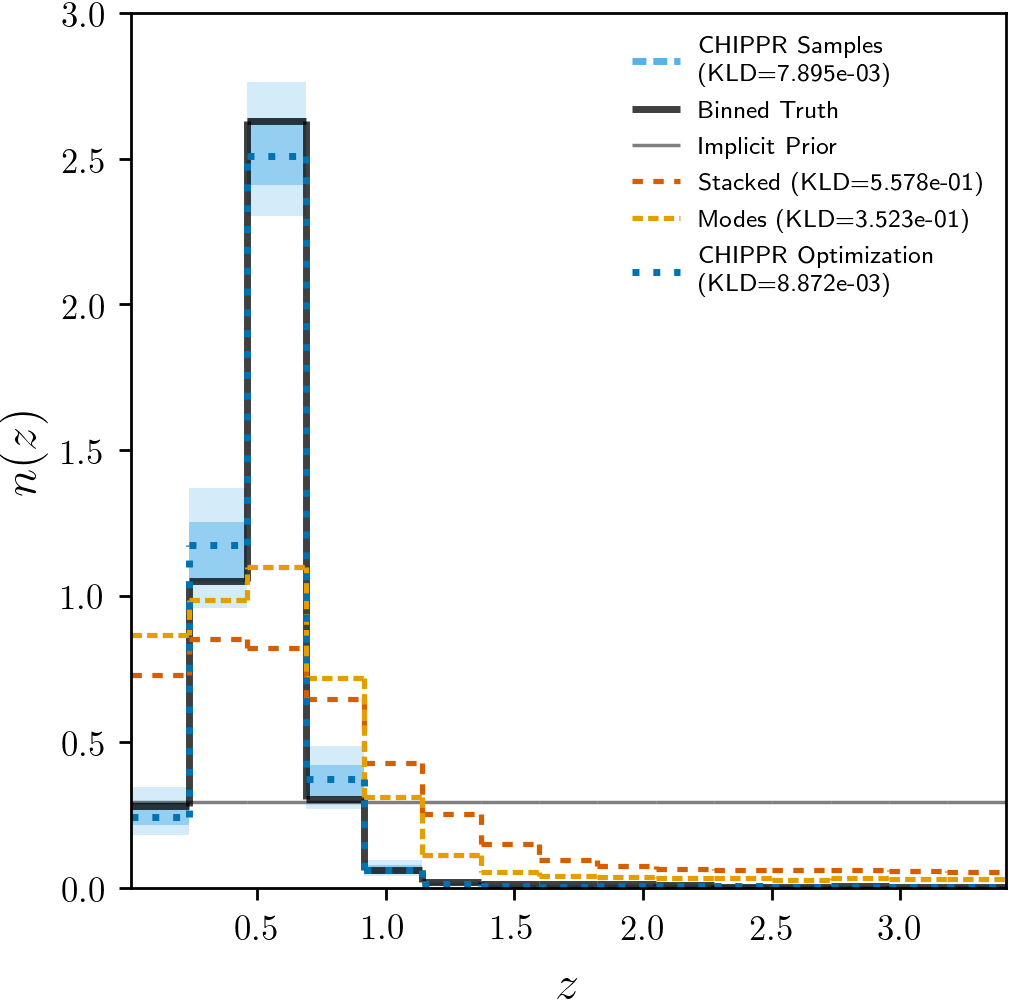
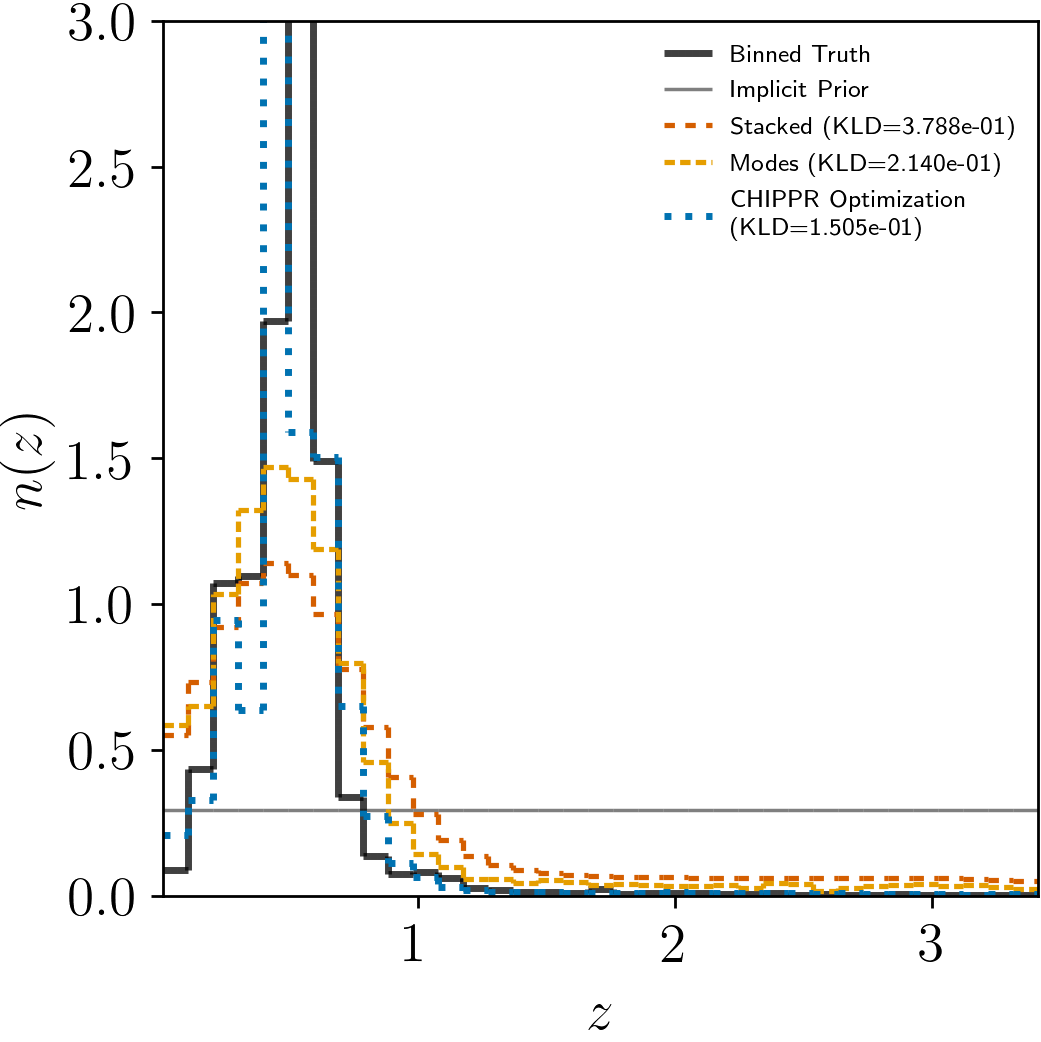
cosmology KLD results added

diff --git a/chapters/chippr.tex b/chapters/chippr.tex
@@ -815,8 +815,7 @@ The \lsst\ Science Requirements Document (SRD)\footnote{\url{https://docushare.l
 To test the impact of these uncertainties, we simulated mock data with all three effects and did a Fisher matrix forecast using \cosmolike.
 \aim{Cite CosmoLike.}
 
-Using 35 evenly spaced tomographic bins $0.0101 < z < 3.4101$, 
-\aim{Update figures for 35 rather than 15 bins.}
+Using 35 evenly spaced tomographic bins $0.0101 < z < 3.4101$,  
 
 \begin{figure*}
 	\begin{center}
@@ -851,16 +850,18 @@ The original, binned, and drawn \nz\ are shown in \Fig{fig:tomobins}
 \end{figure*}
 
 Using the \lsst\ \pz\ requirements given in \Sect{sec:lsstdemo}, I emulated \pzpdf s corresponding to the $10^{4}$ true redshifts drawn from the true \nz\ in each bin using the procedure of \Fig{fig:flowchart}.
+I divided the galaxies into four tomographic bins using their true redshifts, as per the standard forecasting procedure.
 I then ran \chippr\ as well as two other \nz\ estimation methods on the \pzpdf\ catalog for each tomographic bin.
 The estimates are given in \Fig{fig:per-bin-ests}.
 One can see that the excessive breadth of the stacked estimator and the histogram of the modes of the \pzpdf s.
-\Chippr, on the other hand, yields an estimate with error bars that include the truth in most bins and have a marginalized maximum likelihood solution far closer to the truth than the other estimators.
 
 \begin{figure*}
 	\begin{center}
-		\includegraphics[width=0.49\textwidth]{figures/chippr/0single_lsst_lin_estimators.png}\includegraphics[width=0.49\textwidth]{figures/chippr/1single_lsst_lin_estimators.png}\\
-		\includegraphics[width=0.49\textwidth]{figures/chippr/2single_lsst_lin_estimators.png}\includegraphics[width=0.49\textwidth]{figures/chippr/3single_lsst_lin_estimators.png}
-		\caption{The \chippr-derived and other estimators of \nz\ in each tomographic bin.}
+		\includegraphics[width=0.24\textwidth]{figures/chippr/0single_lsst_lin_estimators.png}
+		\includegraphics[width=0.24\textwidth]{figures/chippr/1single_lsst_lin_estimators.png}		\includegraphics[width=0.24\textwidth]{figures/chippr/2single_lsst_lin_estimators.png}
+		\includegraphics[width=0.24\textwidth]{figures/chippr/3single_lsst_lin_estimators.png}
+		\caption{The \chippr-derived and other estimators of \nz\ in each tomographic bin.
+		\aim{Make this one big plot instead of four little ones to eliminate repeated axis labels and legend.}}
 		\figlabel{fig:per-bin-ests}
 	\end{center}
 \end{figure*}
@@ -876,10 +877,13 @@ I then used the different estimators of \nz\ in a cosmological forecasting proce
 	\end{center}
 \end{figure*}
 
+
 \aim{Discuss these results here!}
 
 \aim{Hogg says ``I think it would be good to talk a little quantitatively about where people need to know N(z) and other one-point statistics, and how much they will get various things wrong if they don't know these correctly. 
 	And situate that discussion within the current context of cosmological parameter estimation and precision cosmology.''}
+
+\aim{Caveats: I don't believe in tomographic binning because it's non-physical, and we won't have the true redshifts so there will be additional errors if tomography is used.}
 
 \subsection{Violations of the model}
 \sectlabel{sec:violations}

diff --git a/intro.tex b/intro.tex
@@ -72,6 +72,7 @@ In the absence of an obvious best choice for the method used to derive \pzpdf s,
 This goal of storing multiple \pzpdf s, however, must be accomplished without exceeding the available data storage capacity of the survey nor compromising the integrity of subsequent science applications due to loss of information in the compression and reconstruction schemes.
 \Chap{qp} approaches the problem of choosing how best to store \pzpdf s such that the results of multiple \pzpdf\ techniques may be available to the scientific community, focusing in particular on the number of stored parameters under different possible parameterizations of stored \pzpdf s.
 
+\aim{Update this paragraph for the existence of \Chap{pedant}.}
 \Chap{chippr} presents a mathematically rigorous methodology for inferring \Nz\ from a catalog of \pzpdf s, including the effect of incorrectly inferred \Nz\ on cosmological parameter estimates.
 \Chap{pzdc1} contains a comprehensive comparison of twelve approaches to probabilistic photometric redshift estimation, presenting novel discoveries of the impact of the assumptions implicit to the method by which the redshift probabilities are derived and the limitations of established performance metrics of such probabilistic data products in assessing the quality of the procedures for deriving them.
 I also address in \Chap{qp} a practical concern regarding how redshift probabilities are to actually be used, answering the question of how probabilistic data products should be stored and delivered to users in order to ensure that scientific progress can be made, as well as how to go about answering that question for a generic science application.
